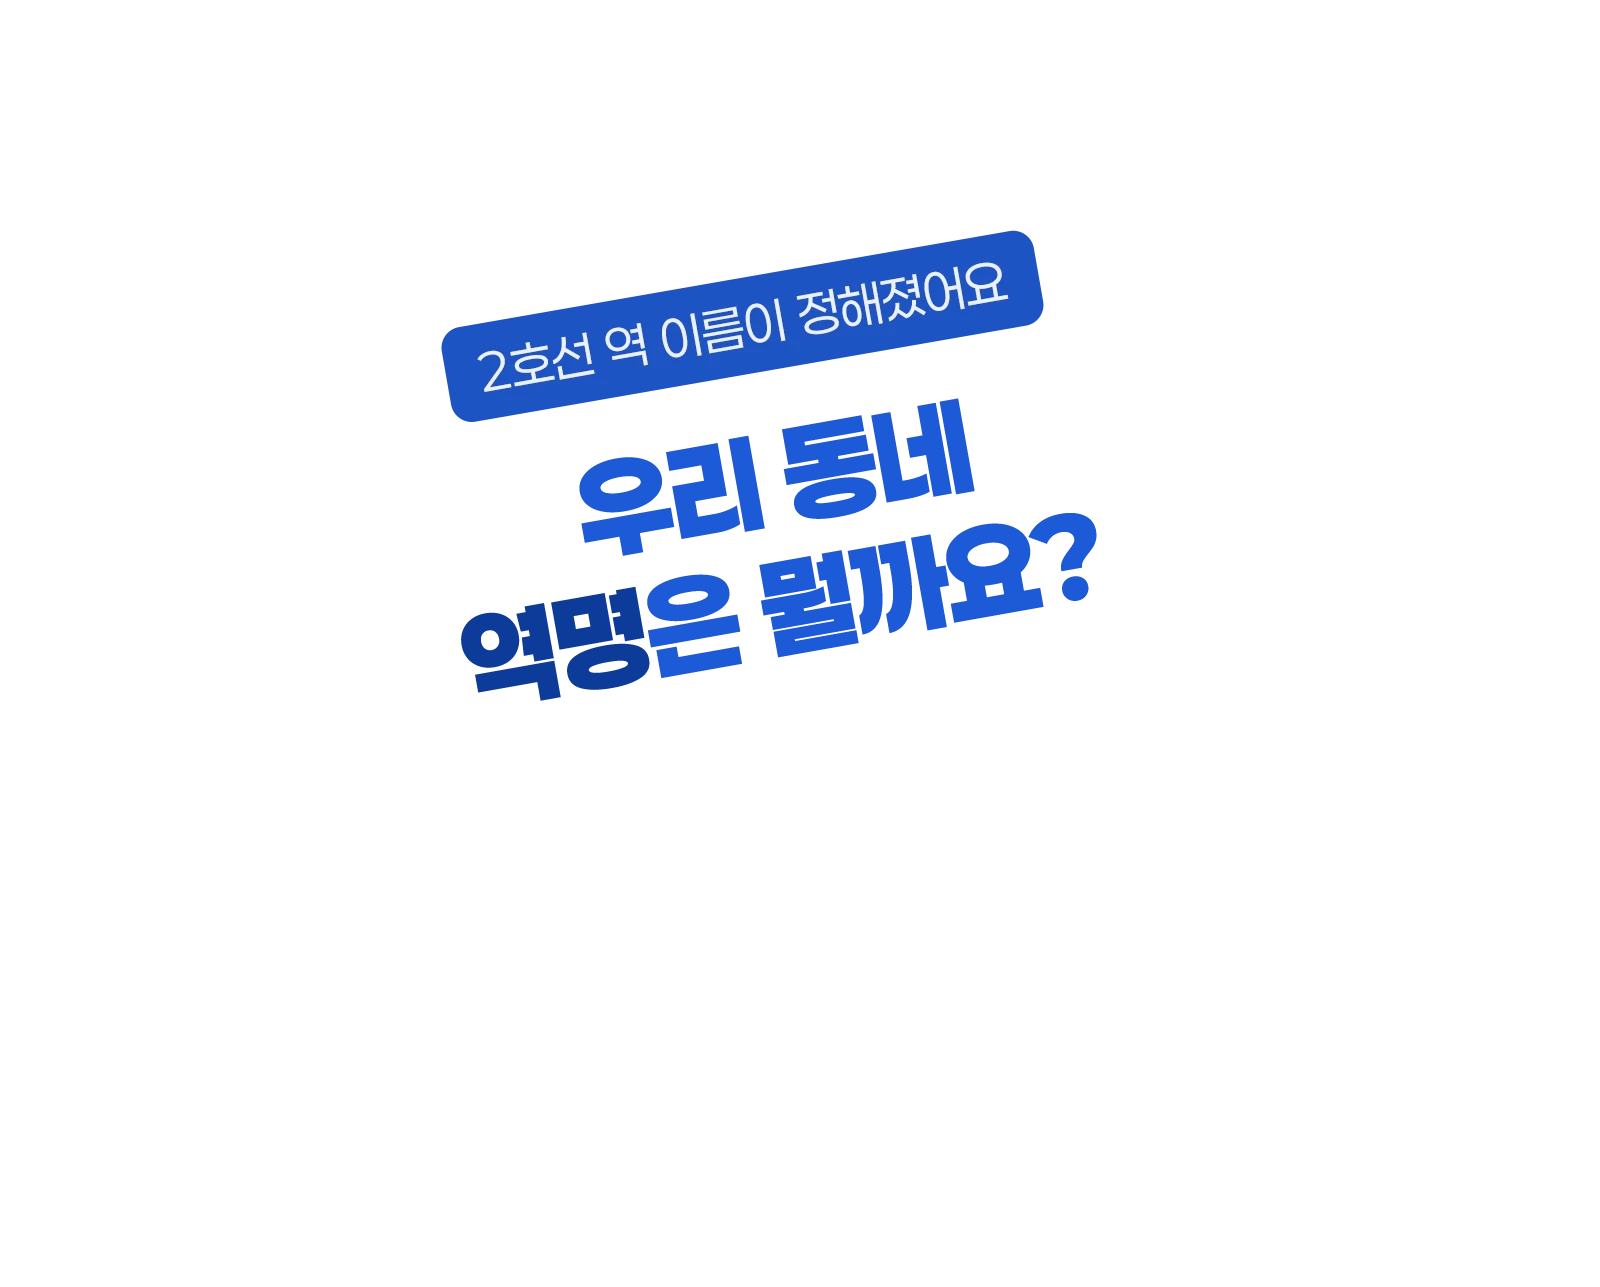
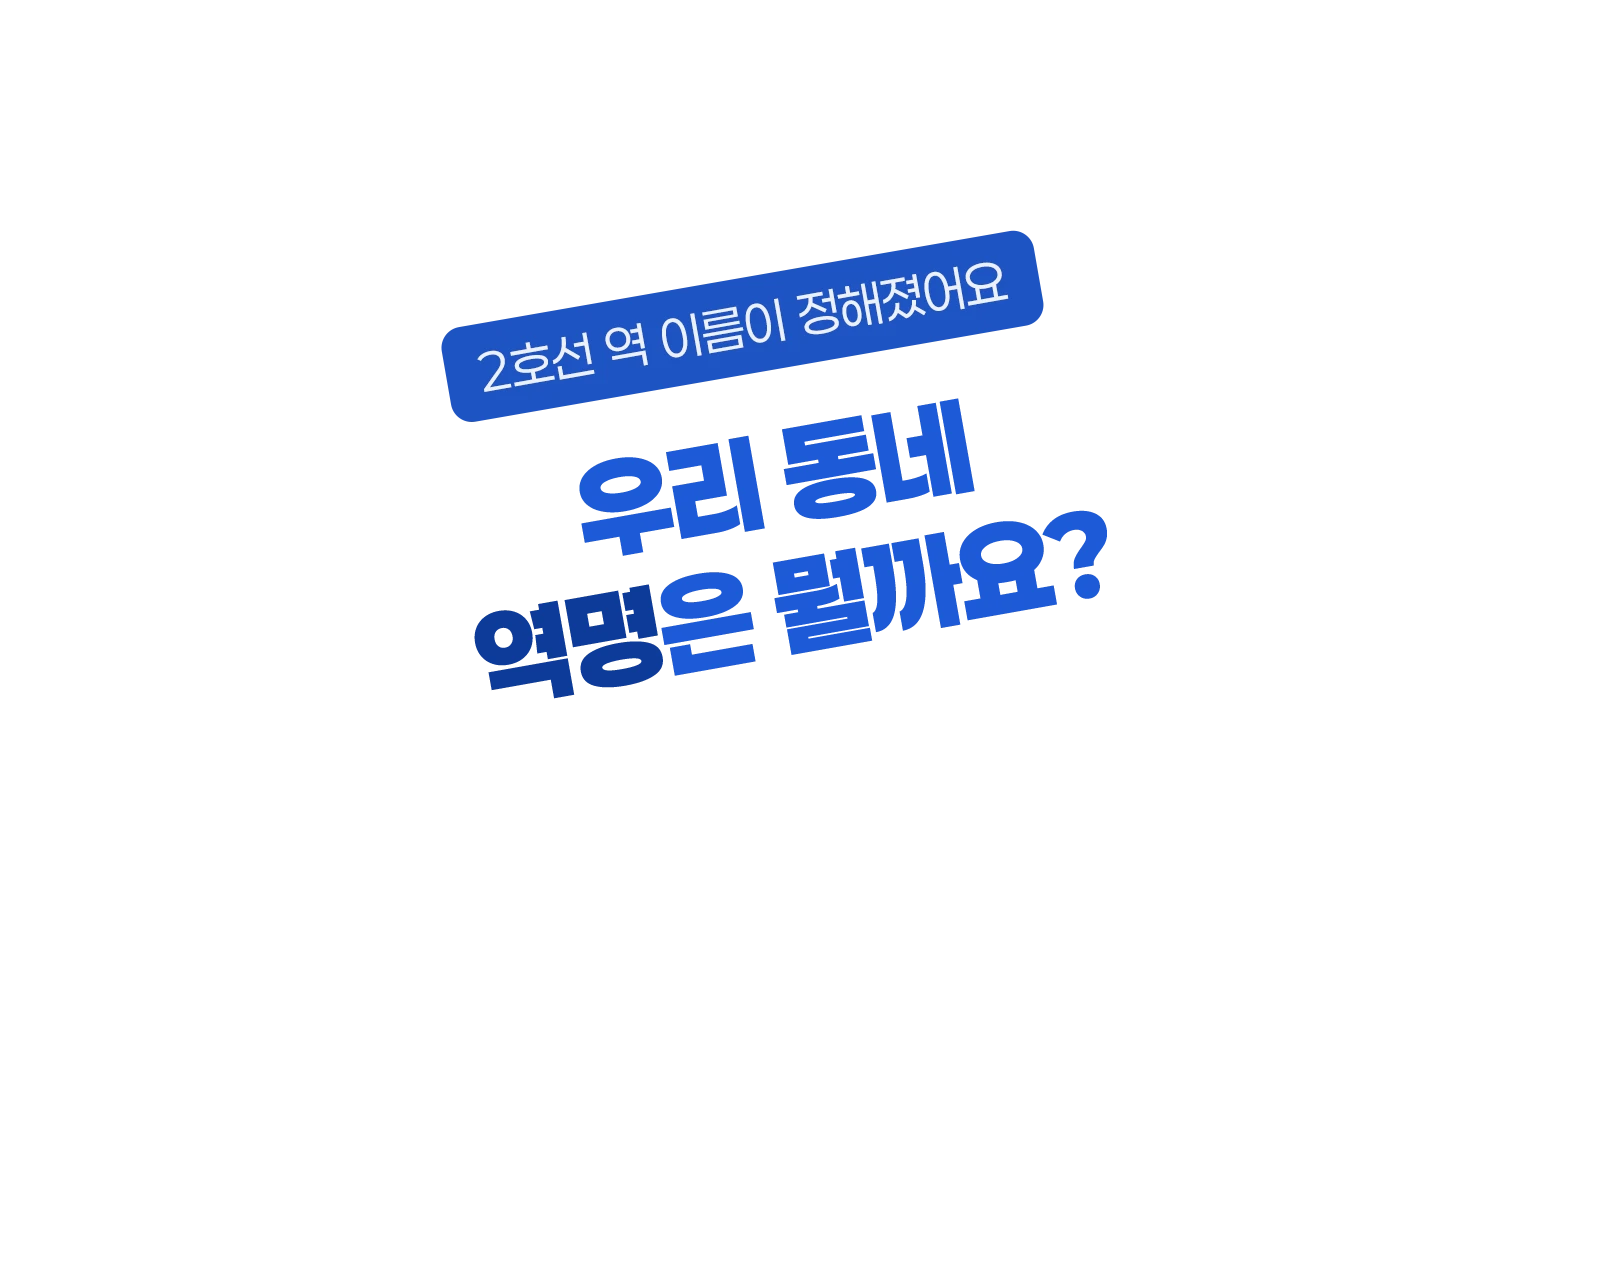
Add files via upload

Changed region(s): [[0.2812, 0.373, 0.6875, 0.5594]]

diff --git a/index.html b/index.html
@@ -128,7 +128,7 @@ if(location.protocol==='file:'||location.hostname.indexOf('github.io')>-1){
 }
 @keyframes gst-hero-sway{ 0%,100%{ transform:rotate(-.2deg); } 50%{ transform:rotate(.9deg); } }
 @keyframes gst-hero-txt{
-  0%{ -webkit-mask-position:100% 0; mask-position:100% 0; transform:translateX(-1.5%); }
+  0%{ -webkit-mask-position:81% 0; mask-position:81% 0; transform:translateX(-1.5%); }   /* 문구 왼쪽 끝에서 바로 시작 — 아래 두 줄과 같은 시점에 드러남 */
   100%{ -webkit-mask-position:0 0; mask-position:0 0; transform:translateX(0); }
 }
 .contents_div .gst-hero.is-anim .gst-hero-bg{ transform-origin:50% 35%; animation:gst-hero-bg 6s cubic-bezier(.2,.6,.3,1) both paused; }
@@ -136,7 +136,7 @@ if(location.protocol==='file:'||location.hostname.indexOf('github.io')>-1){
 .contents_div .gst-hero.is-anim .gst-hero-txt--top{
   -webkit-mask-image:linear-gradient(100deg, #000 40%, transparent 60%); mask-image:linear-gradient(100deg, #000 40%, transparent 60%);
   -webkit-mask-size:300% 100%; mask-size:300% 100%; -webkit-mask-repeat:no-repeat; mask-repeat:no-repeat;
-  animation:gst-hero-txt 1.1s cubic-bezier(.45,.05,.3,1) 1.2s both paused;
+  animation:gst-hero-txt .9s cubic-bezier(.35,.1,.6,1) 1.2s both paused;
 }
 /* 문구 한 장(히어로텍스트.webp)을 기울기(10°)에 맞춰 세 띠로 잘라 각각 움직임 */
 .contents_div .gst-hero-txt--top{ clip-path:polygon(-123.91% -159.67%, 159.22% -221.74%, 190.65% -0.12%, -92.48% 61.95%); }
@@ -341,6 +341,7 @@ if(location.protocol==='file:'||location.hostname.indexOf('github.io')>-1){
   transition:transform .15s;
 }
 .contents_div .gst-lightbox.is-zoom .gst-lightbox-close{ position:fixed; top:10px; right:10px; left:auto; }
+.contents_div .gst-lightbox-guide{ display:none; }
 .contents_div .gst-lightbox-hint{
   position:fixed; left:50%; top:20px; transform:translateX(-50%);
   font-size:var(--fs-label); font-weight:600; line-height:1; color:rgba(255,255,255,.75); white-space:nowrap; pointer-events:none;
@@ -417,13 +418,14 @@ if(location.protocol==='file:'||location.hostname.indexOf('github.io')>-1){
 .contents_div .gst-vote thead th{ background:var(--c-navy); color:#fff; font-size:var(--fs-label); font-weight:700; }
 .contents_div .gst-vote thead th:nth-child(odd){ width:24%; }
 .contents_div .gst-vote tbody th{ font-weight:800; color:var(--c-navy); }
-.contents_div .gst-vote td.gst-vote-name{ font-weight:600; color:var(--c-sub); border-left:1px solid #e6dfd1; }
+.contents_div .gst-vote td.gst-vote-name{ position:relative; font-weight:600; color:var(--c-sub); }
+.contents_div .gst-vote td.gst-vote-name::after{ content:''; position:absolute; left:0; top:12px; bottom:12px; width:1px; background:#e6dfd1; }   /* 확정·경쟁 구분선 — 위아래 여백 */
 .contents_div .gst-vote-pct{ display:flex; align-items:center; gap:10px; }
 .contents_div .gst-vote-pct b{ flex:0 0 2.8em; font-weight:800; color:var(--c-blue); font-variant-numeric:tabular-nums; }
 .contents_div .gst-vote-name + td .gst-vote-pct b{ color:var(--c-sub); }
 .contents_div .gst-vbar{ flex:1 1 auto; height:8px; border-radius:2px; overflow:hidden; background:var(--c-track); }
 .contents_div .gst-vbar i{ display:block; width:var(--v); height:100%; background:var(--c-blue); }
-.contents_div .gst-vote-name + td .gst-vbar i{ background:var(--c-blue-l); }
+.contents_div .gst-vote-name + td .gst-vbar i{ background:#b3b9c4; }   /* 경쟁 역명 막대는 무채색 */
 
 /* ===== 04 앞으로의 일정 ===== */
 .contents_div .gst-sec--4{ text-align:center; }
@@ -512,6 +514,7 @@ if(location.protocol==='file:'||location.hostname.indexOf('github.io')>-1){
   .contents_div .gst-nav-num{ font-size:var(--fs-num); font-weight:600; }
 
   /* 인트로 */
+  .contents_div .gst-intro{ padding-top:calc(var(--band) - 3px); padding-bottom:calc(var(--band) - 3px); }   /* 모바일: 위아래 3px 줄임 */
   .contents_div .gst-facts{ margin-top:31px; }
   .contents_div .gst-facts > div{ padding:14px 0; }
   .contents_div .gst-facts > div + div{ padding-left:14px; }
@@ -533,10 +536,19 @@ if(location.protocol==='file:'||location.hostname.indexOf('github.io')>-1){
   .contents_div .gst-map-labels li{ padding:.18em .24em; font-size:clamp(6px, 2.1cqi, 10px); letter-spacing:-0.06em; }   /* 모바일: 역명 라벨을 노선도 폭에 비례해 줄임(웹과 같은 비율감) */
   .contents_div .gst-zoom-btn{ right:8px; bottom:8px; height:30px; padding:0 10px 0 9px; gap:5px; }
   .contents_div .gst-zoom-btn::before{ width:14px; height:14px; }
-  .contents_div .gst-lightbox-hint{ left:16px; top:24px; transform:none; }
+  /* 크게 보기 — 처음부터 크게, 좌우 스크롤. 닫기는 이미지 오른쪽 위, 안내는 이미지 아래 */
+  .contents_div .gst-lightbox-hint{ display:none; }
+  .contents_div .gst-lightbox-stage,
+  .contents_div .gst-lightbox.is-zoom .gst-lightbox-stage{ width:max-content; max-width:none; margin:0; padding:64px 16px 20px; }
+  .contents_div .gst-lightbox .gst-mapbox,
+  .contents_div .gst-lightbox.is-zoom .gst-mapbox{ width:max(600px, min(860px, calc((100vh - 140px) * var(--ar)))); cursor:default; }
+  .contents_div .gst-lightbox .gst-map-labels li{ padding:.22em .36em; font-size:max(10px, 1.25cqi); letter-spacing:-0.04em; }   /* 크게 볼 때는 웹과 같은 비율 */
   .contents_div .gst-lightbox-close,
-  .contents_div .gst-lightbox.is-zoom .gst-lightbox-close{ position:fixed; top:10px; right:10px; left:auto; }
-  .contents_div .gst-lightbox.is-zoom .gst-lightbox-stage{ width:200%; max-width:none; }
+  .contents_div .gst-lightbox.is-zoom .gst-lightbox-close{ position:fixed; top:72px; right:24px; left:auto; width:40px; height:40px; background-size:18px 18px; }
+  .contents_div .gst-lightbox-guide{
+    display:block; position:sticky; left:0; width:100vw; margin:14px 0 0 -16px;
+    text-align:center; font-size:var(--fs-label); font-weight:600; line-height:1.4; color:rgba(255,255,255,.8);
+  }
 
   /* 역명 표 → 역별 블록 */
   .contents_div .gst-stn{ margin-top:20px; }
@@ -574,21 +586,33 @@ if(location.protocol==='file:'||location.hostname.indexOf('github.io')>-1){
   .contents_div .gst-rename-arrow{ width:.93em; height:.93em; }
   .contents_div .gst-vote{ margin-top:12px; }
   .contents_div .gst-vote thead{ position:absolute; width:1px; height:1px; overflow:hidden; clip:rect(0 0 0 0); white-space:nowrap; }
+  /* 한 줄에 [작은 라벨 / 역명] [득표율] × 2 — 막대 없음 */
   .contents_div .gst-vote tbody{ display:block; }
-  .contents_div .gst-vote tr{ display:grid; grid-template-columns:1fr 1fr; grid-template-rows:auto auto; grid-auto-flow:column; gap:4px 16px; padding:12px var(--card-px); border-bottom:1px solid #e6dfd1; }
+  /* 확정·경쟁 두 칸 너비 같게 — 칸마다 역명은 왼쪽, 득표율은 오른쪽 끝(space-between) */
+  .contents_div .gst-vote tr{
+    container-type:inline-size;   /* 득표율 크기를 행 폭 기준으로 계산 */
+    display:grid; grid-template-columns:minmax(0,1fr) auto minmax(0,1fr) auto;
+    column-gap:6px; padding:12px var(--card-px); border-bottom:1px solid #e6dfd1;
+  }
   .contents_div .gst-vote th,
-  .contents_div .gst-vote td{ display:block; padding:0; border:0; }
-  .contents_div .gst-vote td.gst-vote-name{ border-left:0; }
-  .contents_div .gst-vote tr{ position:relative; }
-  .contents_div .gst-vote tr::after{ content:''; position:absolute; left:50%; top:12px; bottom:12px; width:1px; background:#e6dfd1; }   /* 확정·경쟁 구분선 */
-  .contents_div .gst-vote [data-label]::before{ content:attr(data-label); display:block; font-size:var(--fs-label); font-weight:700; line-height:1.4; color:var(--c-sub); }
-  .contents_div .gst-vote-pct{ gap:8px; }
-  .contents_div .gst-vbar{ height:6px; }
+  .contents_div .gst-vote td{ display:flex; flex-direction:column; justify-content:center; padding:0; border:0; }
+  .contents_div .gst-vote tbody th{ font-size:calc(var(--fs-info) + 1px); line-height:1.3; overflow-wrap:anywhere; }
+  .contents_div .gst-vote td.gst-vote-name{ padding-left:8px; border-left:1px solid #e6dfd1; font-size:calc(var(--fs-info) + 1px); font-weight:700; line-height:1.3; }   /* 확정·경쟁 구분선 */
+  .contents_div .gst-vote [data-label]::before{ content:attr(data-label); display:block; margin-bottom:2px; font-size:var(--fs-label); font-weight:700; line-height:1.4; color:var(--c-sub); }
+  .contents_div .gst-vote td.gst-vote-name::after{ display:none; }
+  .contents_div .gst-vote-cand{ position:relative; align-self:flex-start; }
+  .contents_div .gst-vote-cand::after{ content:''; position:absolute; left:-3px; right:-3px; top:52%; height:1px; background:rgba(74,85,104,.75); }   /* 경쟁 역명 가운데 줄 */   /* 경쟁 역명 가운데 줄 */
+  .contents_div .gst-vote td:not([data-label]){ justify-content:flex-end; }   /* 득표율을 역명 줄 높이에 맞춤 */
+  .contents_div .gst-vote-pct b{ flex:none; font-size:min(calc(var(--fs-info) + 4px), calc((50cqi - 9px - (var(--fs-info) + 1px) * 5.9 - 4px) / 2.15 - 2px)); line-height:1.2; }
+  .contents_div .gst-vbar{ display:none; }
 
   .contents_div .gst-tags{ gap:4px 12px; }
   .contents_div .gst-tags li{ padding:0; border:0; font-weight:400; }   /* 모바일: 캡슐 없이 텍스트만 */
 
   .contents_div .gst-wrap.is-rv .gst-rv{ transform:translate3d(0,18px,0); }
+  /* 득표율: 표가 나타난 뒤 살짝 떠오르며 등장 */
+  .contents_div .gst-wrap.is-rv .gst-vote-pct b{ display:inline-block; opacity:0; transform:translateY(8px); transition:opacity .45s ease-out .45s, transform .45s ease-out .45s; }
+  .contents_div .gst-wrap.is-rv .gst-vote.is-shown .gst-vote-pct b{ opacity:1; transform:none; }
 }
 @media (max-width:480px){
   .contents_div .gst-wrap{
@@ -605,6 +629,7 @@ if(location.protocol==='file:'||location.hostname.indexOf('github.io')>-1){
   .contents_div .gst-br--mo-wide{ display:none; }
   .contents_div .gst-br--m420{ display:inline; }
   .contents_div .gst-h2{ margin-top:10px; }
+  .contents_div .gst-vote tr{ padding-left:10px; padding-right:10px; }
 }
 </style>
 
@@ -626,7 +651,7 @@ if(location.protocol==='file:'||location.hostname.indexOf('github.io')>-1){
       <button type="button" class="gst-nav-btn" data-go="gst-s1" aria-current="true"><span class="gst-nav-num">01</span>역명 제정</button>
       <button type="button" class="gst-nav-btn" data-go="gst-s2"><span class="gst-nav-num">02</span>역명 소개</button>
       <button type="button" class="gst-nav-btn" data-go="gst-s3"><span class="gst-nav-num">03</span>흥미 포인트</button>
-      <button type="button" class="gst-nav-btn" data-go="gst-s4"><span class="gst-nav-num">04</span>앞으로의 일정</button>
+      <button type="button" class="gst-nav-btn" data-go="gst-s4"><span class="gst-nav-num">04</span>앞으로 일정</button>
     </nav>
   </div>
 
@@ -784,9 +809,9 @@ if(location.protocol==='file:'||location.hostname.indexOf('github.io')>-1){
                 <tr><th scope="col">확정 역명</th><th scope="col">득표율</th><th scope="col">경쟁 역명</th><th scope="col">득표율</th></tr>
               </thead>
               <tbody>
-                <tr><th scope="row" data-label="확정 역명">유덕</th><td><span class="gst-vote-pct"><b>40%</b><span class="gst-vbar" style="--v:40%" aria-hidden="true"><i></i></span></span></td><td class="gst-vote-name" data-label="경쟁 역명">버들마을</td><td><span class="gst-vote-pct"><b>39%</b><span class="gst-vbar" style="--v:39%" aria-hidden="true"><i></i></span></span></td></tr>
-                <tr><th scope="row" data-label="확정 역명">치평</th><td><span class="gst-vote-pct"><b>37%</b><span class="gst-vbar" style="--v:37%" aria-hidden="true"><i></i></span></span></td><td class="gst-vote-name" data-label="경쟁 역명">상무지구</td><td><span class="gst-vote-pct"><b>32%</b><span class="gst-vbar" style="--v:32%" aria-hidden="true"><i></i></span></span></td></tr>
-                <tr><th scope="row" data-label="확정 역명">풍암호수공원</th><td><span class="gst-vote-pct"><b>50%</b><span class="gst-vbar" style="--v:50%" aria-hidden="true"><i></i></span></span></td><td class="gst-vote-name" data-label="경쟁 역명">풍암</td><td><span class="gst-vote-pct"><b>42%</b><span class="gst-vbar" style="--v:42%" aria-hidden="true"><i></i></span></span></td></tr>
+                <tr><th scope="row" data-label="확정 역명">유덕</th><td><span class="gst-vote-pct"><b>40%</b><span class="gst-vbar" style="--v:40%" aria-hidden="true"><i></i></span></span></td><td class="gst-vote-name" data-label="경쟁 역명"><span class="gst-vote-cand">버들마을</span></td><td><span class="gst-vote-pct"><b>39%</b><span class="gst-vbar" style="--v:39%" aria-hidden="true"><i></i></span></span></td></tr>
+                <tr><th scope="row" data-label="확정 역명">치평</th><td><span class="gst-vote-pct"><b>37%</b><span class="gst-vbar" style="--v:37%" aria-hidden="true"><i></i></span></span></td><td class="gst-vote-name" data-label="경쟁 역명"><span class="gst-vote-cand">상무지구</span></td><td><span class="gst-vote-pct"><b>32%</b><span class="gst-vbar" style="--v:32%" aria-hidden="true"><i></i></span></span></td></tr>
+                <tr><th scope="row" data-label="확정 역명">풍암호수공원</th><td><span class="gst-vote-pct"><b>50%</b><span class="gst-vbar" style="--v:50%" aria-hidden="true"><i></i></span></span></td><td class="gst-vote-name" data-label="경쟁 역명"><span class="gst-vote-cand">풍암</span></td><td><span class="gst-vote-pct"><b>42%</b><span class="gst-vbar" style="--v:42%" aria-hidden="true"><i></i></span></span></td></tr>
               </tbody>
             </table>
             <p>유덕, 치평, 풍암호수공원역은 2위 역명과 치열한 다툼을 벌였답니다.</p>
@@ -855,6 +880,7 @@ if(location.protocol==='file:'||location.hostname.indexOf('github.io')>-1){
               <li style="--x:74.43%;--y:33.36%">중흥<br>삼거리</li>
             </ol>
     </div>
+    <p class="gst-lightbox-guide">← 좌우로 스크롤해서 보세요 →</p>
     <button type="button" class="gst-lightbox-close" aria-label="닫기"></button>
   </div>
 </div>
@@ -877,14 +903,14 @@ if(location.protocol==='file:'||location.hostname.indexOf('github.io')>-1){
     if(src){ if(src.complete) setAr(); else src.addEventListener('load', setAr); }
     var close = lb.querySelector('.gst-lightbox-close');
     var stage = lb.querySelector('.gst-lightbox-stage');
-    function open(){ lb.classList.remove('is-zoom'); lb.classList.add('is-open'); lb.scrollTop = 0; lb.focus(); }
+    function open(){ lb.classList.remove('is-zoom'); lb.classList.add('is-open'); lb.scrollTop = 0; lb.scrollLeft = Math.max(0, (lb.scrollWidth - lb.clientWidth) / 2); lb.focus(); }
     function shut(){ lb.classList.remove('is-open'); fig.focus(); }
     fig.addEventListener('click', open);
     fig.addEventListener('keydown', function(e){ if(e.key === 'Enter' || e.key === ' '){ e.preventDefault(); open(); } });
     close.addEventListener('click', shut);
     lb.addEventListener('click', function(e){ if(e.target === lb || e.target === stage) shut(); });
     lb.addEventListener('keydown', function(e){ if(e.key === 'Escape') shut(); });
-    img.addEventListener('click', function(){ lb.classList.toggle('is-zoom'); });
+    img.addEventListener('click', function(){ if(window.matchMedia && window.matchMedia('(max-width:600px)').matches) return; lb.classList.toggle('is-zoom'); });
   })();
 
   /* 역명 표 접기·펼치기 (내용은 HTML에 모두 있음, 보이기만 조절) */
@@ -1009,6 +1035,7 @@ if(location.protocol==='file:'||location.hostname.indexOf('github.io')>-1){
       }, { threshold:0.6 });
       io.observe(el);
     })();
+
   })();
 
   /* 섹션 진입 시 키커 핀 애니메이션 */
